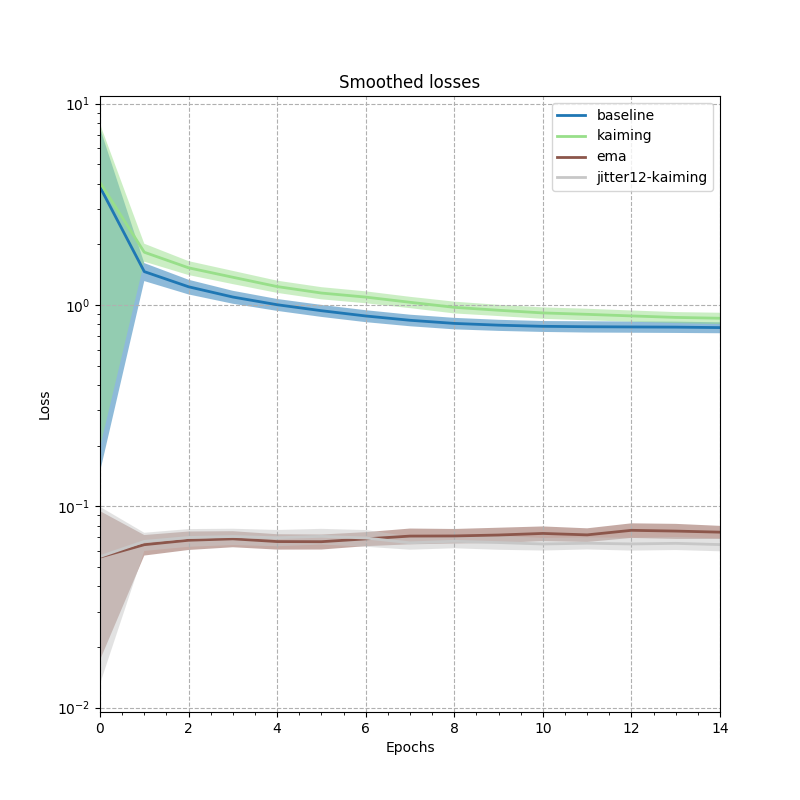
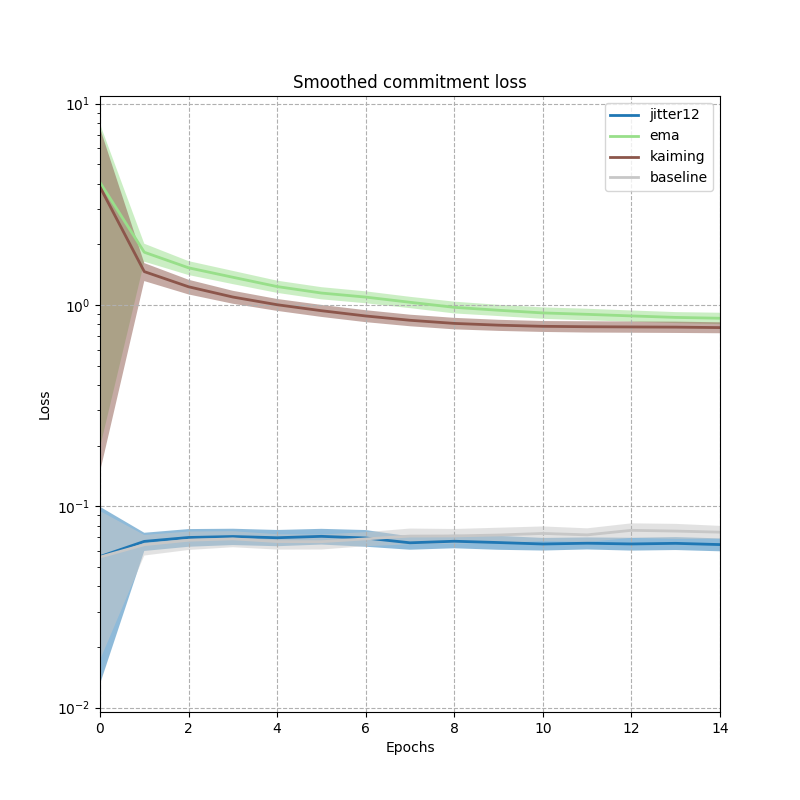
- Remove deprecated entry in gitignore - Add more training and evaluation plots in README - Update merged-losses-types-plots titles - Remove useless desktop.ini file - Remove deprecated stuff in vq_vae_features/evaluator

diff --git a/src/vq_vae_features/evaluator.py b/src/vq_vae_features/evaluator.py
@@ -47,8 +47,7 @@ class Evaluator(object):
 
     def evaluate(self, results_path, experiment_name):
         self._reconstruct(results_path, experiment_name)
-        #self._compute_comparaison_plot(results_path, experiment_name)
-        #self._test(results_path, experiment_name)
+        self._compute_comparaison_plot(results_path, experiment_name)
         self._plot_quantized_embedding_space(results_path, experiment_name)
         #self._compute_wav(results_path, experiment_name)
 
@@ -130,30 +129,6 @@ class Evaluator(object):
         y = np.arange(data.shape[0]) if y is None else y # default y shape if None
         c = axis.pcolormesh(x, y, data)
         fig.colorbar(c, ax=axis)
-
-    def _test(self, results_path, experiment_name):
-        encodings = self._encodings.detach().cpu().numpy()
-
-        fig, axs = plt.subplots(4, 1, figsize=(25, 20), sharex=True)
-
-        axs[0].set_title('Encodings')
-        self._plot_pcolormesh(encodings[0].transpose(), fig, x=np.arange(encodings[0].transpose().shape[1]) * 0.01 * 2, axis=axs[0]) # winstep = 0.01, 2 = strided of downsampling
-
-        probs = F.softmax(-self._distances[0], dim=1).detach().cpu().transpose(0, 1).contiguous()
-        axs[1].set_title('Softmax of distances computed in VQ\n($||z_e(x) - e_i||^2_2$ with $z_e(x)$ the output of the encoder prior to quantization)')
-        self._plot_pcolormesh(probs, fig, x=np.arange(probs.shape[1]) * 0.01 * 2, axis=axs[1]) # winstep = 0.01, 2 = strided of downsampling
-
-        axs[2].set_title('Quantized')
-        quantized = self._quantized.detach().cpu()[0]
-        self._plot_pcolormesh(quantized, fig, x=np.arange(quantized.shape[1]) * 0.01 * 2, axis=axs[2]) # winstep = 0.01, 2 = strided of downsampling
-
-        normalized_quantized = (quantized - quantized.mean(dim=0)) / quantized.std(dim=0)
-        axs[3].set_title('Normalized quantized')
-        self._plot_pcolormesh(normalized_quantized, fig, x=np.arange(normalized_quantized.shape[1]) * 0.01 * 2, axis=axs[3]) # winstep = 0.01, 2 = strided of downsampling
-
-        output_path = results_path + os.sep + experiment_name + '_evaluation-test.png'
-        plt.savefig(output_path, bbox_inches='tight', pad_inches=0)
-        plt.close()
 
     def _plot_quantized_embedding_space(self, results_path, experiment_name):
         quantized = self._quantized.detach().cpu().numpy()

diff --git a/src/experiments/experiments.py b/src/experiments/experiments.py
@@ -308,7 +308,7 @@ class Experiments(object):
 
             for j in range(len(all_train_loss_smooth)):
                 ax = self._plot_fill_between(ax, colors[j], all_train_loss_smooth[j], all_experiments_names[j])
-            ax = self._configure_ax(ax, title='Smoothed losses', xlabel='Epochs', ylabel='Loss', legend=True)
+            ax = self._configure_ax(ax, title='Smoothed ' + loss_name.replace('_', ' '), xlabel='Epochs', ylabel='Loss', legend=True)
             output_plot_path = results_path + os.sep + loss_name + '.png'
 
             fig.savefig(output_plot_path)

diff --git a/README.md b/README.md
@@ -115,6 +115,30 @@ This figure describes the layers of the VQ-VAE model we have used. All convoluti
 
 This figure shows the training evolution of the VQ-VAE model using two metrics: the loss values (the lower the better), and the perplexity. The model was trained during 15 epochs using the architecture described in Section `VQ-VAE-Speech encoder + Deconv decoder`. We use 29 vectors of dim 64 as the VQ space. All experiments have been setted with a seed of 1234 for reproducibility. We tried several variants of the training: the kaiming normal (also known as He initialization) [He, K et al., 2015], the VQ-EMA [Roy et al., 2018], the jitter layer proposed in [Chorowski et al., 2019].
 
+![](results/vq29-mfcc39/train/merged-losses-plots/baseline_merged-losses.png)
+
+![](results/vq29-mfcc39/train/merged-losses-plots/jitter12_merged-losses.png)
+
+![](results/vq29-mfcc39/train/merged-losses-types-plots/reconstruction_loss.png)
+
+### Evaluation
+
+#### Comparaison plots
+
+Without jitter:
+![](results/vq29-mfcc39/val/comparaison-plots/baseline_evaluation-comparaison-plot.png)
+
+With jitter:
+![](results/vq29-mfcc39/val/comparaison-plots/jitter12_evaluation-comparaison-plot.png)
+
+#### Embedding plots
+
+Embedding of 100 valuations with 10 neighbors with the audio frame points colored by speaker id and the embedding marks colored in black:
+![](results/vq29-mfcc39/val/embedding-plots/speaker_id/n10/baseline_quantized_embedding_space_colored_by_speaker_id-n10.png)
+
+Embedding of 100 valuations with 10 neighbors with the audio frame points colored by encoding indices and the embedding marks colored by number of embedding vectors (using the same color map):
+![](results/vq29-mfcc39/val/embedding-plots/encoding_indices/n10/baseline_quantized_embedding_space_colored_by_encoding_indices-n10.png)
+
 # References
 
 * [Chorowski et al., 2019] [Jan Chorowski, Ron J. Weiss, Samy Bengio, and Aaron van den Oord. Unsupervised speech representation learning using WaveNet autoencoders. arXiv e-prints, page arXiv:1901.08810, 01 2019](https://arxiv.org/abs/1901.08810).
